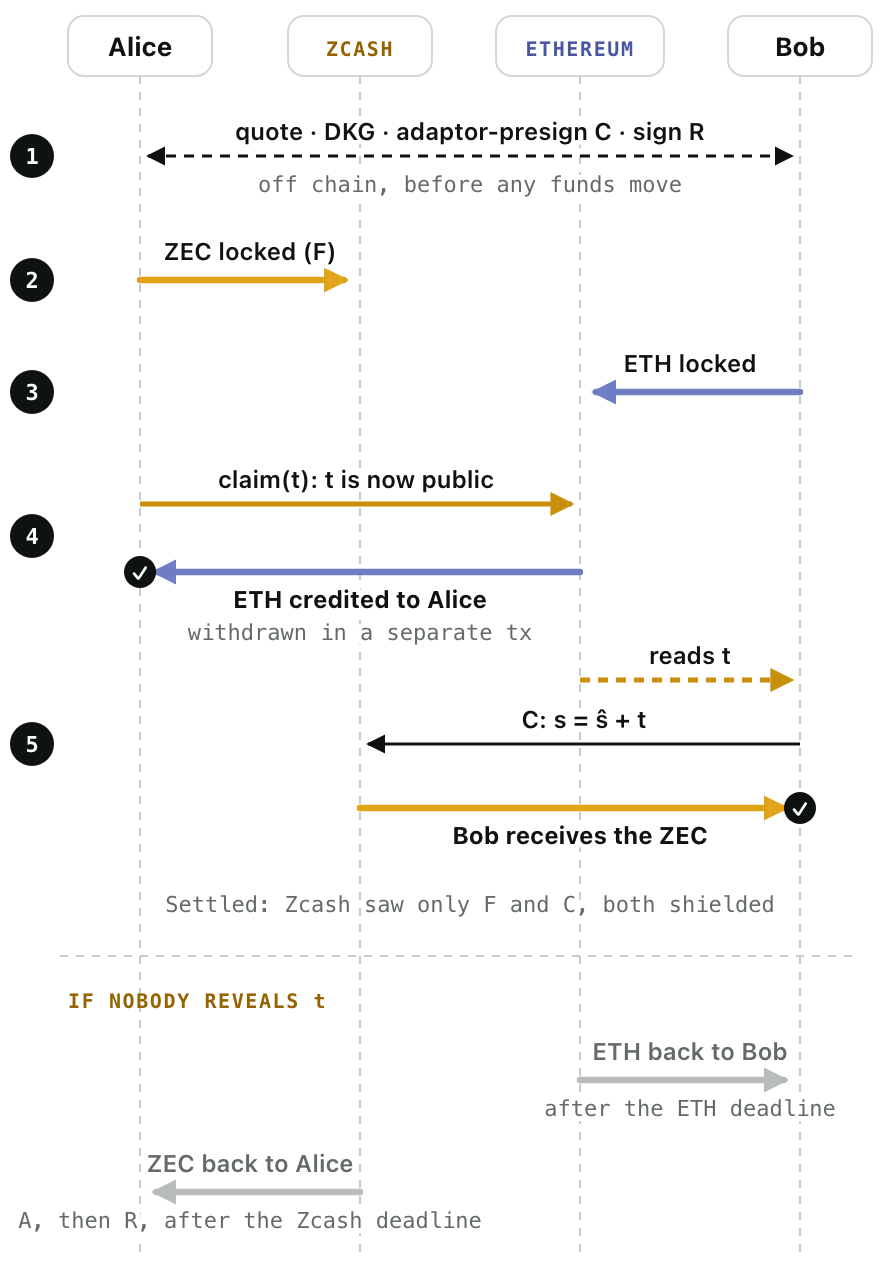
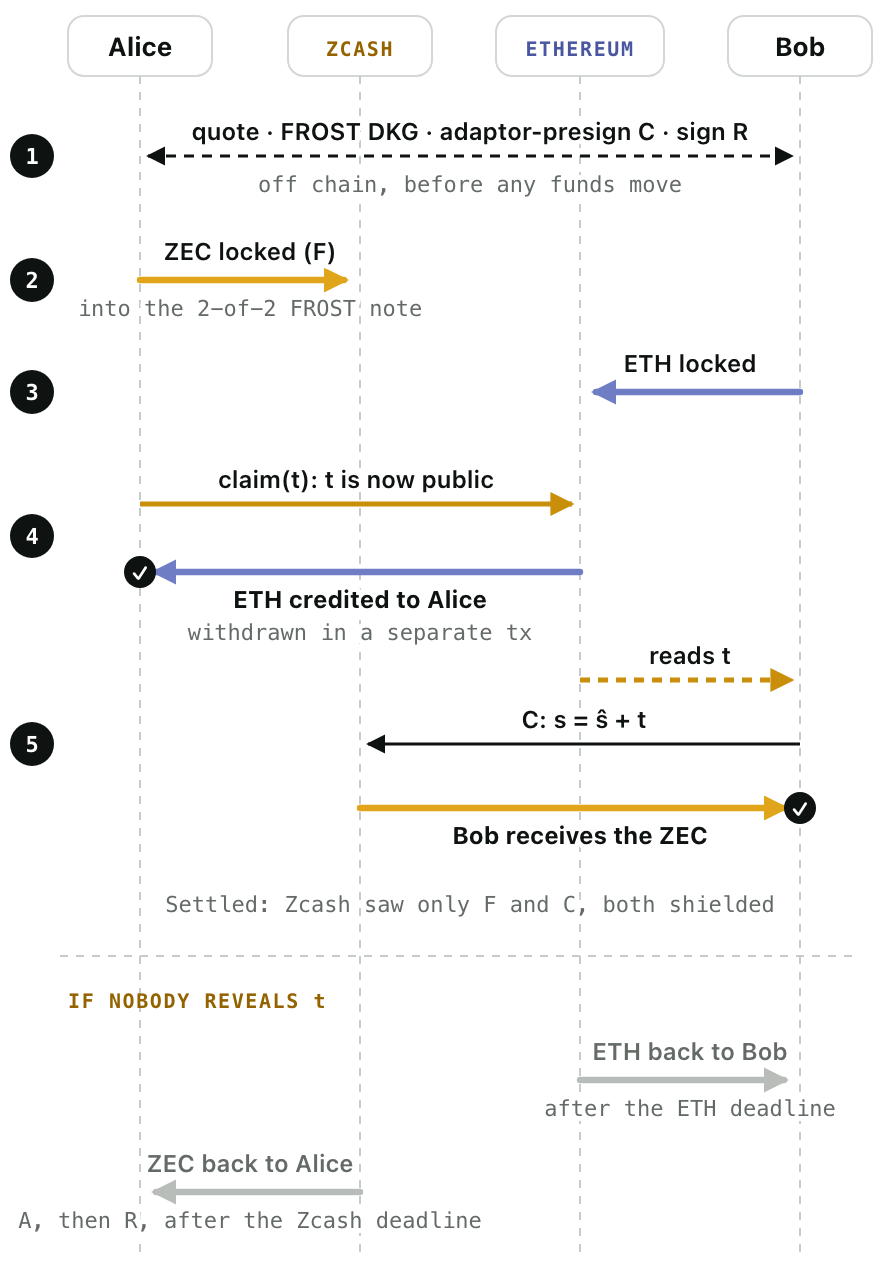
Bring the ŝ calculation and the refund coin to the pages read first
protocol.md shows how the two signers compute ŝ; the README and site explain
the refund's transparent coin, put the main links up front and add GitHub to
the nav; the five-step diagram names FROST.

diff --git a/web/landing.html b/web/landing.html
@@ -11,7 +11,7 @@
 <header class="topbar">
   <div class="wrap topbar-inner">
     <a class="brand" href="/" aria-label="Zatomic home"><img src="/mark.svg" alt="" width="28" height="28"><span>Zatomic</span></a>
-    <nav aria-label="Sections"><a href="/stage"><b>Live demo</b></a><a href="#problem">Problem</a><a href="#idea">The idea</a><a href="#public">Public run</a><a href="#compare">Why Zatomic</a><a href="#privacy">Privacy</a><a href="#recovery-matrix">Recovery</a><a href="#evidence">Evidence</a></nav>
+    <nav aria-label="Sections"><a href="/stage"><b>Live demo</b></a><a href="#problem">Problem</a><a href="#idea">The idea</a><a href="#public">Public run</a><a href="#compare">Why Zatomic</a><a href="#privacy">Privacy</a><a href="#recovery-matrix">Recovery</a><a href="#evidence">Evidence</a><a href="https://github.com/yugocabrio/zatomic" target="_blank" rel="noopener">GitHub ↗</a></nav>
     <div class="network" role="status" aria-live="polite"><i id="network-dot" aria-hidden="true"></i><span id="network-status">Checking the demo…</span></div>
   </div>
 </header>
@@ -141,7 +141,7 @@
         <p>During FROST pre-signing, the aggregate nonce point R is shifted by the public adaptor point T = t·G, giving <var>R̂ = R + T</var>. Each signer computes their partial signature with the challenge c derived from <var>R̂</var>, so the shares combine into ŝ, one secret short:</p>
         <p class="formula">ŝ·G = R̂ − T + c·X′</p>
         <p>Adding <var>t</var> gives <var>s = ŝ + t</var>, so <var>s·G = R̂ + c·X′</var>: <b>an ordinary valid signature</b> for the randomized spend key X′. Ethereum checks <var>t·G = T</var> on Pallas itself, so the same <var>t</var> needs no cross-curve proof.</p>
-        <p>In plain FROST, Alice’s and Bob’s partial signatures add up to a valid signature. Here they add up to ŝ, still one secret short: <b>on its own ŝ fails the check above, so Zcash rejects C and Bob cannot spend yet.</b> Bob checks that equation himself, without knowing <var>t</var>, before Alice funds anything. So once he locks his ETH <b>he needs nothing more from Alice</b>: the only missing piece is the <var>t</var> she must publish to take the ETH. <a href="https://github.com/yugocabrio/zatomic/blob/main/docs/security.md#custom-signature-calculation" target="_blank" rel="noopener">Full calculation, with nonces and share checks ↗</a></p>
+        <p>In plain FROST, Alice’s and Bob’s partial signatures add up to a valid signature. Here they add up to ŝ, still one secret short: <b>on its own ŝ fails the check above, so Zcash rejects C and Bob cannot spend yet.</b> Bob checks that equation himself, without knowing <var>t</var>, before Alice funds anything. So once he locks his ETH <b>he needs nothing more from Alice</b>: the only missing piece is the <var>t</var> she must publish to take the ETH. <a href="https://github.com/yugocabrio/zatomic/blob/main/docs/protocol.md#how-the-pre-signature-is-computed" target="_blank" rel="noopener">How the two signers compute ŝ ↗</a></p>
       </div>
       <div class="explain-block">
         <h3>How both exits exist before the note does</h3>
@@ -170,7 +170,7 @@
       <figure class="how-figure" aria-labelledby="how-figure-caption">
         <svg viewBox="0 0 440 640" role="img" aria-labelledby="seq-title seq-desc">
           <title id="seq-title">The five steps: where funds move and who receives what</title>
-          <desc id="seq-desc">1: Alice and Bob agree off chain, run the FROST DKG, adaptor-presign C and fully sign R. 2: Alice locks ZEC in the joint note with F. 3: Bob locks ETH in the escrow. 4: Alice calls claim(t), making t public, and the ETH is credited to her; she withdraws it in a separate transaction. 5: Bob reads t, sends C with s = ŝ + t, and receives the ZEC. If nobody reveals t, the ETH goes back to Bob and the ZEC goes back to Alice through A and R.</desc>
+          <desc id="seq-desc">1: Alice and Bob agree off chain, run the FROST DKG, adaptor-presign C and fully sign R. 2: Alice locks ZEC in the joint 2-of-2 FROST note with F. 3: Bob locks ETH in the escrow. 4: Alice calls claim(t), making t public, and the ETH is credited to her; she withdraws it in a separate transaction. 5: Bob reads t, sends C with s = ŝ + t, and receives the ZEC. If nobody reveals t, the ETH goes back to Bob and the ZEC goes back to Alice through A and R.</desc>
           <defs>
             <marker id="sq-ink" viewBox="0 0 10 10" refX="9" refY="5" markerWidth="6" markerHeight="6" orient="auto-start-reverse"><path d="M0 0L10 5L0 10z" class="svg-head-ink"/></marker>
             <marker id="sq-gold" viewBox="0 0 10 10" refX="9" refY="5" markerWidth="5" markerHeight="5" orient="auto-start-reverse"><path d="M0 0L10 5L0 10z" class="svg-gold-head"/></marker>
@@ -186,12 +186,13 @@
 
           <circle cx="16" cy="78" r="11" class="svg-badge"/><text x="16" y="82" text-anchor="middle" class="svg-badge-text">1</text>
           <path d="M74 78 H396" class="svg-msg svg-msg-dash" marker-start="url(#sq-ink)" marker-end="url(#sq-ink)"/>
-          <text x="235" y="70" text-anchor="middle" class="svg-msg-label">quote · DKG · adaptor-presign C · sign R</text>
+          <text x="235" y="70" text-anchor="middle" class="svg-msg-label">quote · FROST DKG · adaptor-presign C · sign R</text>
           <text x="235" y="96" text-anchor="middle" class="svg-msg-note">off chain, before any funds move</text>
 
           <circle cx="16" cy="140" r="11" class="svg-badge"/><text x="16" y="144" text-anchor="middle" class="svg-badge-text">2</text>
           <path d="M70 140 H172" class="svg-asset svg-asset-zec" marker-end="url(#sq-zec)"/>
           <text x="125" y="130" text-anchor="middle" class="svg-msg-label">ZEC locked (F)</text>
+          <text x="125" y="158" text-anchor="middle" class="svg-msg-note">into the 2-of-2 FROST note</text>
 
           <circle cx="16" cy="196" r="11" class="svg-badge"/><text x="16" y="200" text-anchor="middle" class="svg-badge-text">3</text>
           <path d="M400 196 H298" class="svg-asset svg-asset-eth" marker-end="url(#sq-eth)"/>
@@ -230,7 +231,7 @@
     <p class="steps-result"><b>Result:</b> two native settlements, linked by one scalar. On Zcash the whole swap is F and C, both fully shielded.</p>
     <div class="steps-branch">
       <h3>If Alice never reveals <var>t</var></h3>
-      <p>Bob takes his ETH back after the ETH deadline. After the later Zcash refund deadline, Alice broadcasts her pre-signed transaction A, which turns a little of her own change into a small transparent coin. She then broadcasts her time-locked refund R, which spends that coin and returns her ZEC shielded. Zcash enforces a lock time only on a transparent input; <b>a settled swap needs neither A nor R</b>.</p>
+      <p>Bob takes his ETH back after the ETH deadline. After the later Zcash refund deadline, Alice broadcasts her pre-signed transaction A, which turns a little of her own change into a small transparent coin. She then broadcasts her time-locked refund R, which spends that coin and returns her ZEC shielded. Zcash enforces a transaction’s lock time only when it has a transparent input with a non-final sequence number, which is why R spends that coin; <b>a settled swap needs neither A nor R</b>.</p>
       <p><b>Why the ETH deadline comes first:</b> once Alice reveals <var>t</var>, Bob still has time to claim the ZEC before her refund unlocks. Each app watches its deadline; recovery assumes timely inclusion and bounded reorgs. <a href="https://github.com/yugocabrio/zatomic/blob/main/docs/protocol.md" target="_blank" rel="noopener">Protocol details ↗</a></p>
     </div>
     <p class="fineprint">FROST DKG and nonces use the Zcash Foundation libraries; the adaptor extension and the Solidity check are this project’s own.</p>

diff --git a/web/style.css b/web/style.css
@@ -54,8 +54,12 @@ code, var { font-family: var(--mono); font-style: normal; font-size: .92em; }
 .brand { display: inline-flex; align-items: center; gap: 9px; font-weight: 750; font-size: 22px; letter-spacing: -.04em; text-decoration: none; }
 .brand img { border-radius: 7px; }
 .brand-small { font-size: 18px; }
-nav { display: flex; gap: 22px; margin-right: auto; }
-nav a { text-decoration: none; color: var(--ink-2); font-size: 14px; padding: 6px 0; }
+nav { display: flex; gap: 22px; margin-right: auto; min-width: 0; overflow-x: auto; scrollbar-width: none; }
+nav::-webkit-scrollbar { display: none; }
+nav a { text-decoration: none; color: var(--ink-2); font-size: 14px; padding: 6px 0; white-space: nowrap; }
+.topbar-inner > .network { flex-shrink: 1000; min-width: 34px; }
+@media (max-width: 1180px) { nav { gap: 14px; } nav a { font-size: 13px; } }
+@media (max-width: 960px) { .topbar-inner { gap: 20px; } nav { gap: 9px; } nav a { font-size: 12.5px; } }
 nav a:hover { color: var(--ink); text-decoration: underline; text-underline-offset: 4px; }
 .network { min-width: 0; display: flex; align-items: center; gap: 8px; font: 12.5px var(--mono); color: var(--ink-2); border: 1px solid var(--line-strong); border-radius: 999px; padding: 6px 12px; white-space: nowrap; }
 .net-short { display: none; }

diff --git a/docs/protocol.md b/docs/protocol.md
@@ -46,14 +46,33 @@ pre-signature for C that is one secret short, for the randomized spend key X′:
 
 Adding t gives s = ŝ + t, and s·G = R̂ + c·X′ is an ordinary valid signature.
 Claiming the ETH publishes t, and the escrow checks t·G = T on Pallas itself, so
-no cross-curve proof is needed. The full calculation, with nonces and share
-checks, is in [security.md](security.md#custom-signature-calculation).
+no cross-curve proof is needed.
 
 In plain FROST the two partial signatures add up to a valid signature; here they
 add up to ŝ, one secret short. Bob checks the pre-signature against C's sighash,
 the spend key and T himself, before Alice funds anything, and Alice releases her
-share only after verifying Bob's (see [security](security.md)). FROST provides the
-joint custody; the adaptor signature lets Bob later claim alone.
+share only after verifying Bob's. FROST provides the joint custody; the adaptor
+signature lets Bob later claim alone.
+
+<a name="how-the-pre-signature-is-computed"></a>**How the two signers compute ŝ.** Each signer i holds a FROST key share xᵢ with
+interpolation weight λᵢ (Σλᵢ = 1), and draws two one-use nonces dᵢ, eᵢ, publishing
+Dᵢ = dᵢ·G and Eᵢ = eᵢ·G. ρᵢ is FROST's binding factor and α the randomizer Zcash
+applies to the spend key. The only change from plain FROST is the nonce point
+used for the challenge:
+
+    X′ = X + α·G
+    R  = Σ (Dᵢ + ρᵢ·Eᵢ)                 plain FROST nonce point
+    R̂  = R + T                          shifted by the adaptor point
+    c  = H(R̂ ‖ X′ ‖ sighash of C)
+    ẑᵢ = dᵢ + ρᵢ·eᵢ + λᵢ·c·(xᵢ + α)     each signer's partial signature
+    ŝ  = ẑ_A + ẑ_B                      so ŝ·G = R + c·X′ = R̂ − T + c·X′
+    s  = ŝ + t                          once Alice's claim makes t public
+
+Bob checks ŝ·G + T = R̂ + c·X′, which needs only T, not t. Alice, who knows t,
+releases her share ẑ_A only after Bob's ẑ_B verifies against the same nonce
+commitments. Otherwise Bob could shift his commitment by −T and turn Alice's share
+into a valid signature without t; [security](security.md#adaptor-share-release-order)
+describes that attack, its fix and the regression tests.
 
 **Why the exits can be signed before the note exists.** In the v6 transaction
 format ([ZIP 229](https://github.com/zcash/zips/blob/929a92f7383e036b6f6a48f43ec88c5bdd130003/zips/zip-0229.md#anchor-commitment-version-6)),
@@ -67,7 +86,9 @@ they share a nullifier: only one of them can ever be mined.
 a transaction has a transparent input with a non-final sequence number. R
 therefore also spends the coin from A, which Alice creates from her own change
 only if she refunds. A settled swap puts only F and C on chain, both fully
-shielded.
+shielded. The coin's 20,000 zatoshi is this implementation's choice, not a
+consensus rule: it pays R's 5,000-zatoshi incremental fee, and R returns the
+other 15,000 to Alice.
 
 **Deadlines.** The ETH expiry comes first and the native refund time later, so
 that after Alice reveals t, Bob still has time to complete C before R becomes

diff --git a/README.md b/README.md
@@ -4,15 +4,17 @@
 
 **Atomic swaps of shielded ZEC for ETH, with both exits prepared before funding.**
 
+[Live demo](https://162-55-186-88.sslip.io) · [Public testnet runs](#public-testnet-runs) · [Protocol in one page](docs/protocol.md) · [Slides (PDF)](docs/zatomic-slides.pdf)
+
 ![Zatomic stage after a settled swap: Alice’s and Bob’s apps, and between them only what an outside observer saw](docs/images/stage-swap.png)
 
 Zatomic swaps native shielded ZEC for ETH between two parties who have already
 agreed a trade. There is no bridge, no wrapped ZEC and no custodian or solver.
 
 Unlike ordinary FROST, combining Alice's and Bob's partial signatures here gives
-an adaptor pre-signature, not a valid spend signature. When Alice reveals t to
-claim the ETH, Bob adds it to complete the RedPallas signature and claims the
-shielded ZEC without further help from Alice.
+an adaptor pre-signature, not a valid spend signature. When Alice reveals the
+secret t to claim the ETH, Bob adds it to complete the RedPallas signature and
+claims the shielded ZEC without further help from Alice.
 
 ## The problem
 
@@ -31,13 +33,18 @@ Ethereum, routing through solvers and public viewing keys, or using transparent 
 - **Adaptor signature, Bob claims alone.** Before Alice funds the note, both
   sign Bob's claim C with their nonce point shifted by T = t·G, R̂ = R + T, so
   their partial signatures add up to a pre-signature one secret short:
-  ŝ·G = R̂ − T + c·X′. Bob checks it himself, without knowing t.
+  ŝ·G = R̂ − T + c·X′. Bob checks it himself, without knowing t
+  ([how the two signers compute ŝ](docs/protocol.md#how-the-pre-signature-is-computed)).
 - **Escrow on Ethereum.** Bob locks ETH to T. Alice claims it with t; the escrow
   checks t·G = T on Pallas, and the same t completes Bob's signature:
   s = ŝ + t gives s·G = R̂ + c·X′. After locking, Bob needs nothing more from Alice.
-- **Lock time, Alice refunds alone.** Alice holds refund R, fully signed. If
-  nobody reveals t, Bob takes his ETH back after the deadline, and after the
-  Zcash deadline Alice sends A, then R, and recovers her ZEC.
+- **Lock time, Alice refunds alone.** Before funding, both also fully sign
+  Alice's refund R. Zcash enforces a lock time only when a transaction has a
+  transparent input with a non-final sequence number, so Alice prepares a private
+  transaction A that turns a little of her own shielded change into a small
+  transparent coin, and R spends that coin. If nobody reveals t, Bob takes his ETH
+  back after the deadline, and after the Zcash deadline Alice sends A, then R, and
+  recovers her ZEC without Bob. A settled swap sends neither A nor R.
 - **Signed before the note exists.** v6 transactions keep the anchor and proofs
   outside what spend signatures sign
   ([ZIP 229](https://github.com/zcash/zips/blob/929a92f7383e036b6f6a48f43ec88c5bdd130003/zips/zip-0229.md#anchor-commitment-version-6)),
